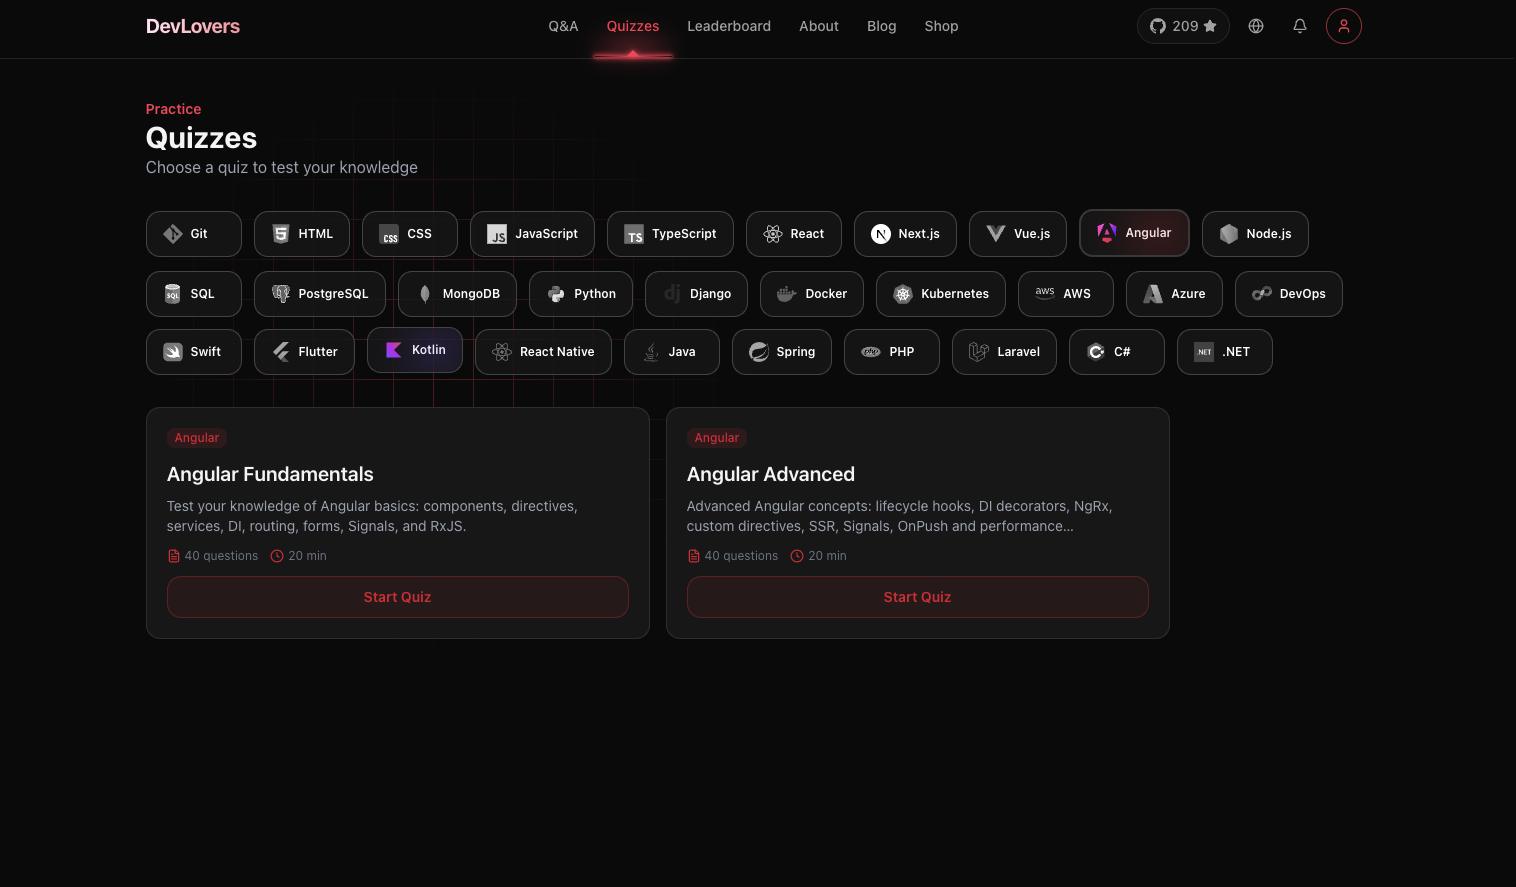
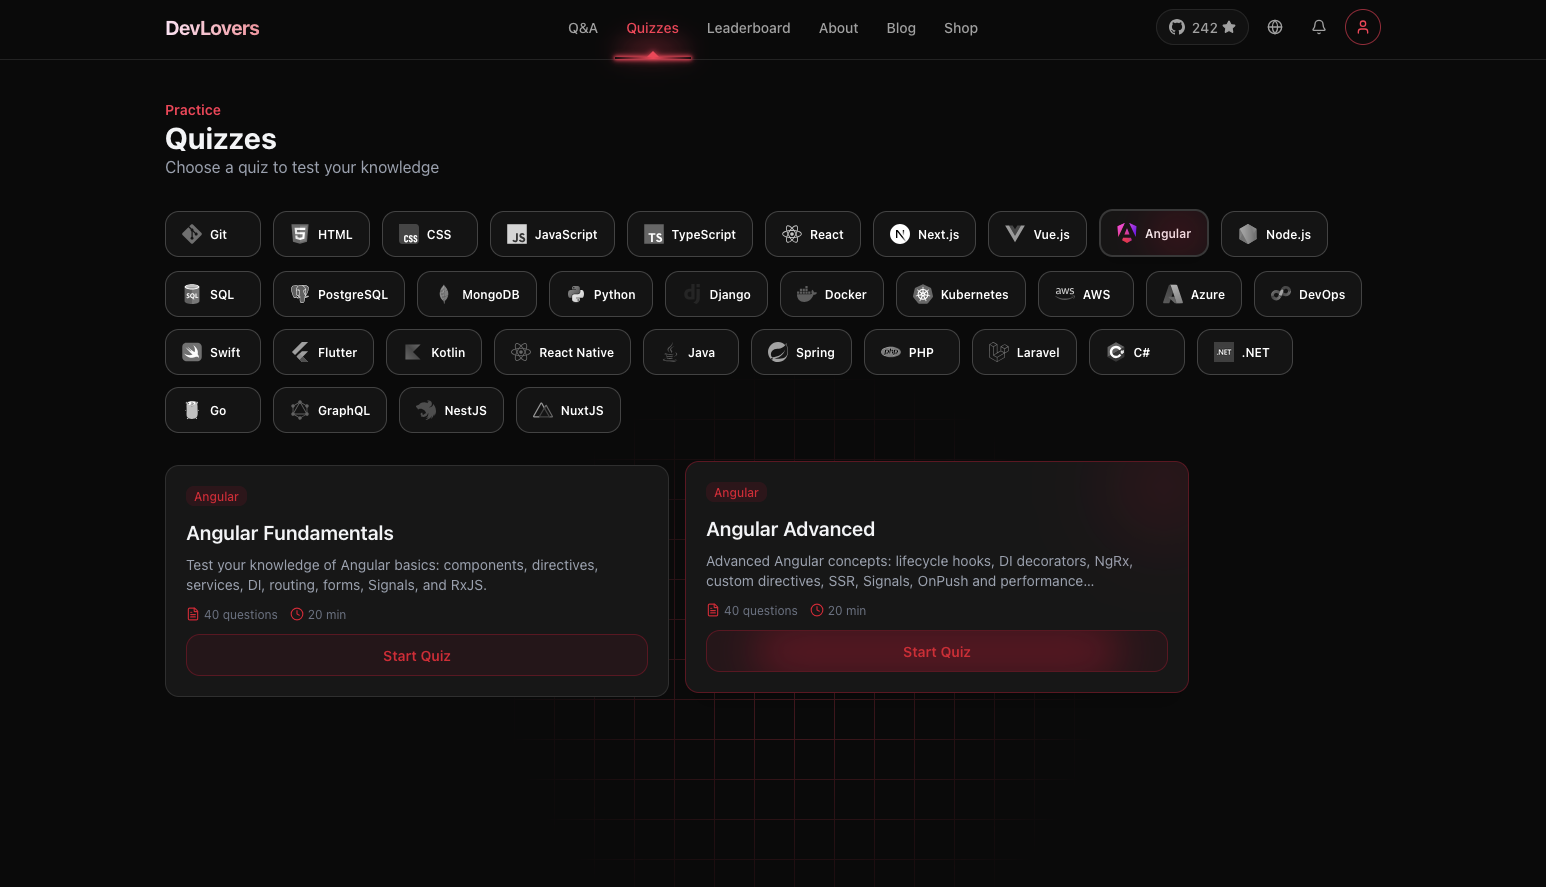
docs: refresh app screenshots and README descriptions

diff --git a/README.md b/README.md
@@ -10,52 +10,55 @@
 
 ### Home
 
-- Minimal first landing page
-- Multi-language support
-- Theme switching
+- Interview preparation landing page with a clear call to action
+- Navigation to Q&A, quizzes, leaderboard, blog, and shop
+- English, Ukrainian, and Polish interfaces with light, dark, and system themes
 
-![Home](./assets/01-screencapture.png)
+![DevLovers home page with the interview preparation introduction and Take the First Step button](./assets/01-screencapture.png)
 
 ### Q&A
 
-- Categorized technical questions
-- AI-powered Word Helper for explanations
-- Multi-language content
+- Technical questions organized by language, framework, and tool
+- Viewed-question tracking, saved questions, and progress reset
+- Paginated question lists with adjustable page size
+- AI-powered Word Helper for explanations and multi-language content
 
-![Q&A](./assets/02-screencapture.png)
+![Q&A page with technology filters, viewed and saved questions, a progress bar, and pagination](./assets/02-screencapture.png)
 
 ### Quiz System
 
+- Quiz catalog filtered by technology, with question counts and time limits
 - Multiple-choice quizzes with countdown timer
 - Anti-cheat protection (tab switch detection, copy prevention)
 - Guest mode with post-auth sync
 - Per-quiz progress tracking
 
-![Quiz System](./assets/03-screencapture.png)
+![Quiz catalog showing Angular Fundamentals and Angular Advanced cards with question counts and time limits](./assets/03-screencapture.png)
 
 ### Leaderboard
 
 - Points system with improvement-based scoring
-- Top players podium
+- Top-three podium and a ranked table with player scores
 - Integrity-filtered rankings
 
-![Leaderboard](./assets/04-screencapture.png)
+![All-time leaderboard with a top-three podium and ranked player scores](./assets/04-screencapture.png)
 
 ### About
 
-- Mission-driven page explaining DevLovers vision, values, and interview-first approach
-- Highlights platform impact, community growth, and real preparation over guessing
+- Interview preparation mission centered on structured practice and practical skills
+- Community highlights for quizzes passed, active users, GitHub stars, and LinkedIn followers
 
-![About](./assets/05-screencapture.png)
+![About page with the Debug your skills before the recruiter does headline and community statistics](./assets/05-screencapture.png)
 
 ### Blog
 
-- Technical articles via custom in-house admin panel
+- Featured articles and a post grid covering Tech, Career, Insights, and News
+- Article previews with author, category, and publication date
 - Category and tag filtering
 - Search with pagination
 - Multi-language content (uk/en/pl)
 
-![Blog](./assets/06-screencapture.png)
+![Blog page with a featured article, category filters, and article cards](./assets/06-screencapture.png)
 
 ### Shop
 
@@ -63,23 +66,24 @@
 - Stripe checkout
 - Admin panel for orders and inventory
 
-![Shop](./assets/07-screencapture.png)
+![Shop preview with a Coming soon banner and new-arrival product cards showing prices and availability](./assets/07-screencapture.png)
 
 ### Authentication
 
 - Email/password with verification
-- OAuth (Google, GitHub)
+- Google and GitHub sign-in with a last-used provider indicator
 - Password reset flow
 
-![Shop](./assets/08-screencapture.png)
+![Login page with Google and GitHub sign-in, email and password fields, and the language selector](./assets/08-screencapture.png)
 
-## Dashboard
+### Dashboard
 
-- Personal learning dashboard with progress insights
-- Quiz history and performance overview
-- Quick access to key account activity
+- Score distribution with Mastered, Review, and Study categories
+- Activity heatmap and achievement badges
+- Quiz results with scores, accuracy, integrity, earned points, and status
+- Q&A progress by topic, saved-question counts, and links to continue learning
 
-![Dashboard](./assets/09-screencapture.png)
+![Personal dashboard showing score distribution, an activity heatmap, achievements, quiz results, and question progress by topic](./assets/09-screencapture.png)
 
 > [!IMPORTANT]
 > **Contact me:** [contact@devlovers.net](mailto:contact@devlovers.net)
